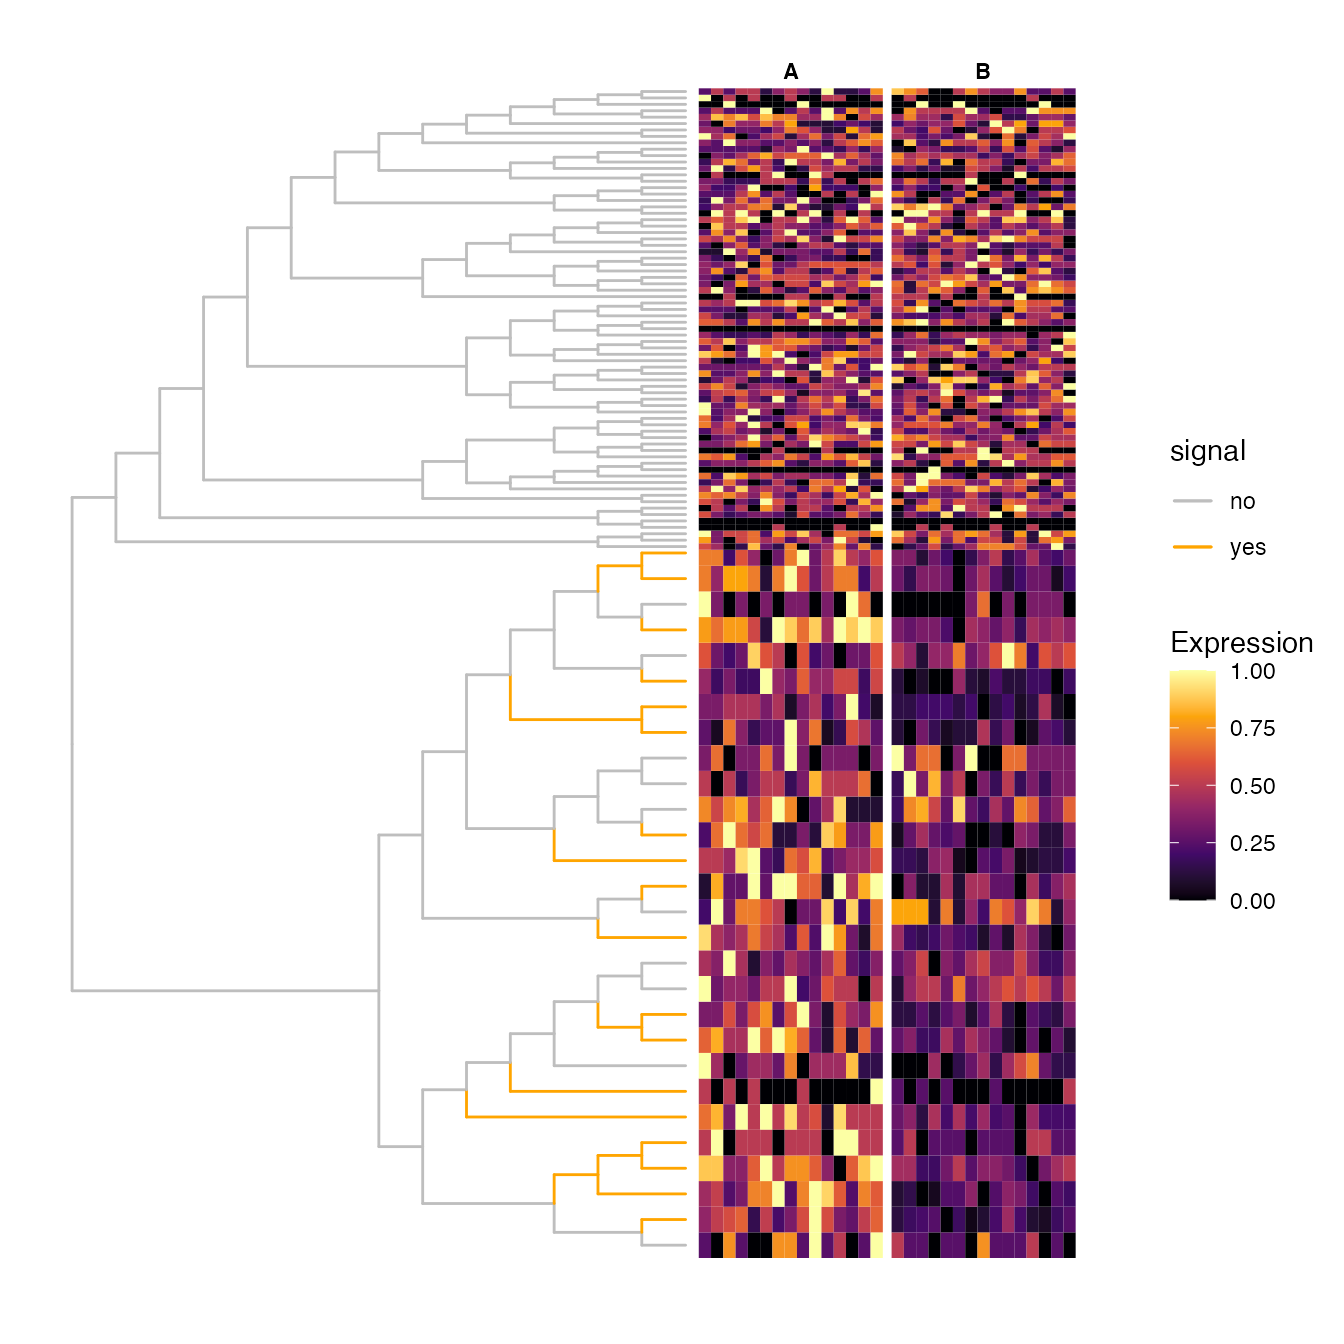
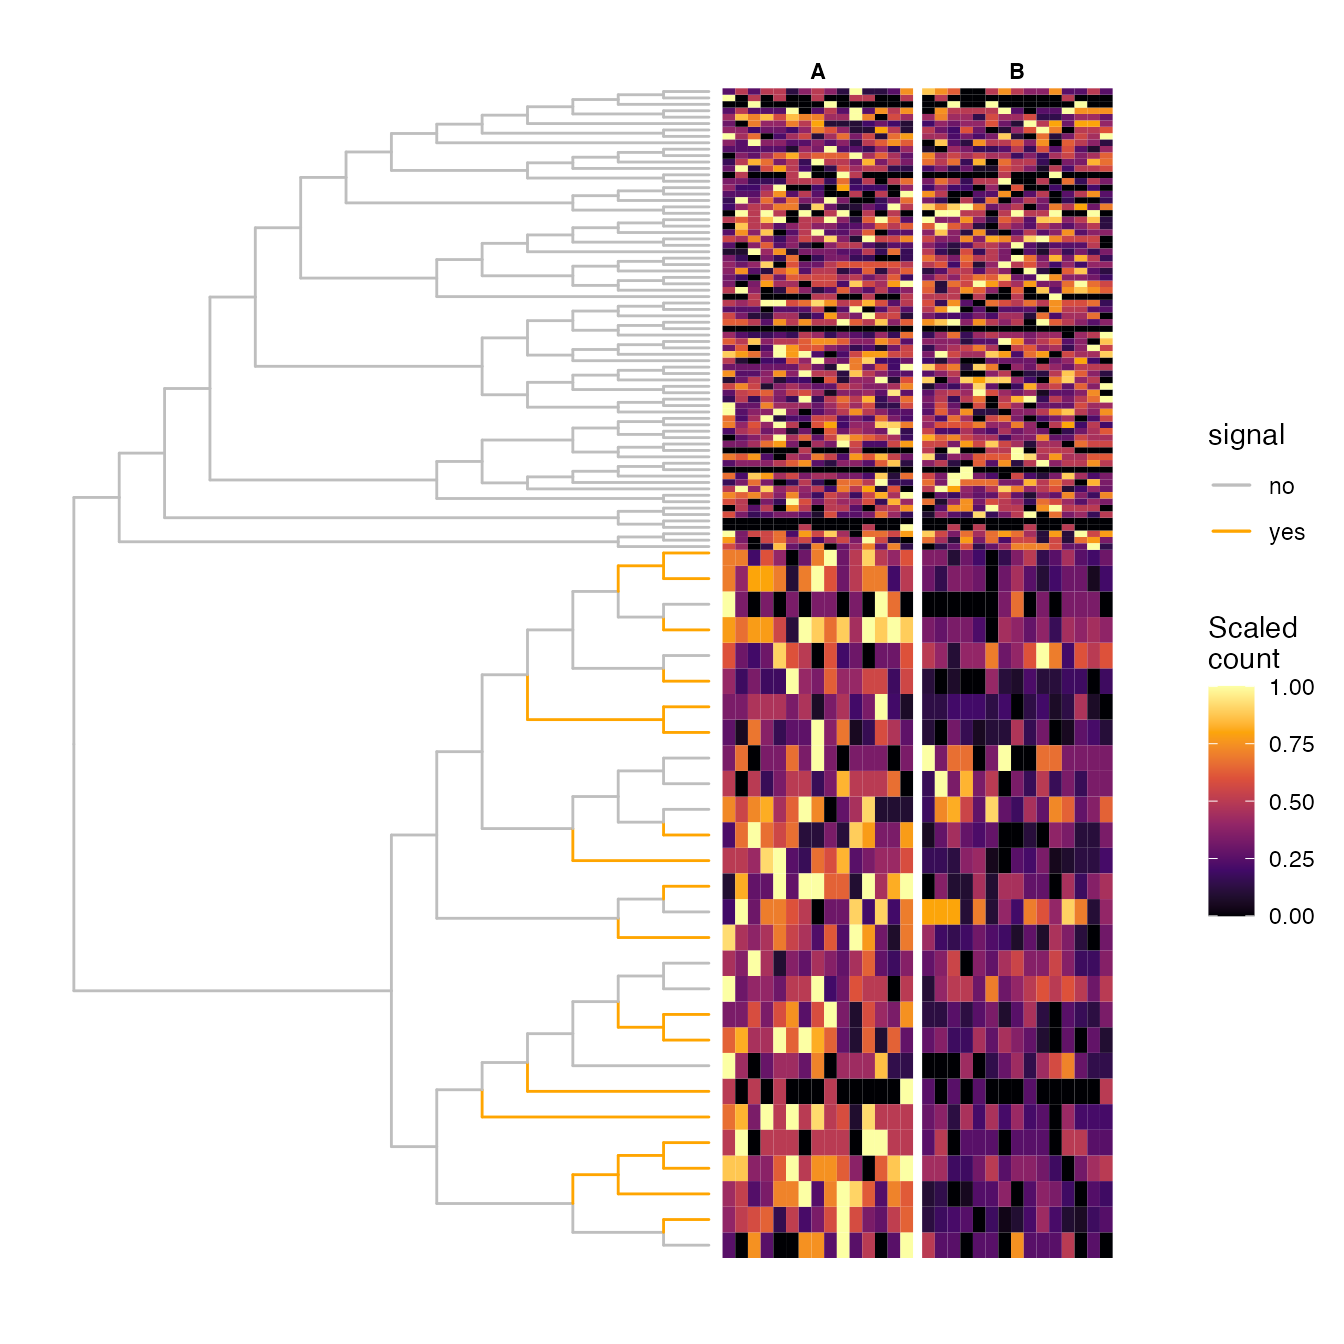
cli-35530-395

diff --git a/articles/treeclimbR.html b/articles/treeclimbR.html
@@ -74,7 +74,7 @@ hypotheses with treeclimbR</h1>
                         <h4 data-toc-skip class="author">Charlotte
 Soneson and Ruizhu Huang</h4>
             
-            <h4 data-toc-skip class="date">2024-02-14</h4>
+            <h4 data-toc-skip class="date">2024-02-20</h4>
       
       <small class="dont-index">Source: <a href="https://github.com/csoneson/treeclimbR/blob/HEAD/vignettes/treeclimbR.Rmd" class="external-link"><code>vignettes/treeclimbR.Rmd</code></a></small>
       <div class="hidden name"><code>treeclimbR.Rmd</code></div>
@@ -98,9 +98,9 @@ conditions to be reliably detected. Aggregating abundances on a higher
 level in the tree can detect families of species that are closely
 related and that all change (possibly weakly but) concordantly. At the
 same time, blindly aggregating to a higher level across the whole tree
-may mean that we lose the ability to pinpoint specific species with a
-strong signal that may not be shared with their closest neighbors in the
-tree. Taken together, this motivates the development of a data-dependent
+may imply losing the ability to pinpoint specific species with a strong
+signal that may not be shared with their closest neighbors in the tree.
+Taken together, this motivates the development of a data-dependent
 aggregation approach, which is also allowed to aggregate different parts
 of the tree at different levels of resolution.</p>
 <p>If you are using <code>treeclimbR</code>, please cite <span class="citation">Huang et al. (2021)</span>, which also contains the
@@ -214,7 +214,7 @@ data.</p>
 <span><span class="fu"><a href="https://rdrr.io/r/base/names.html" class="external-link">names</a></span><span class="op">(</span><span class="va">vv</span><span class="op">)</span> <span class="op">&lt;-</span> <span class="fu"><a href="https://rdrr.io/r/base/colnames.html" class="external-link">colnames</a></span><span class="op">(</span><span class="va">scale_count</span><span class="op">)</span></span>
 <span><span class="va">anno_c</span> <span class="op">&lt;-</span> <span class="fu"><a href="https://rdrr.io/r/base/structure.html" class="external-link">structure</a></span><span class="op">(</span><span class="va">vv</span>, names <span class="op">=</span> <span class="va">vv</span><span class="op">)</span></span>
 <span><span class="fu"><a href="../reference/TreeHeatmap.html">TreeHeatmap</a></span><span class="op">(</span>tree <span class="op">=</span> <span class="fu"><a href="https://rdrr.io/pkg/TreeSummarizedExperiment/man/TreeSummarizedExperiment-accessor.html" class="external-link">rowTree</a></span><span class="op">(</span><span class="va">da_lse</span><span class="op">)</span>, tree_fig <span class="op">=</span> <span class="va">da_fig_tree</span>, </span>
-<span>            hm_data <span class="op">=</span> <span class="va">scale_count</span>,</span>
+<span>            hm_data <span class="op">=</span> <span class="va">scale_count</span>, legend_title_hm <span class="op">=</span> <span class="st">"Scaled\ncount"</span>,</span>
 <span>            column_split <span class="op">=</span> <span class="va">vv</span>, rel_width <span class="op">=</span> <span class="fl">0.6</span>,</span>
 <span>            tree_hm_gap <span class="op">=</span> <span class="fl">0.3</span>,</span>
 <span>            column_split_label <span class="op">=</span> <span class="va">anno_c</span><span class="op">)</span> <span class="op">+</span></span>
@@ -241,7 +241,9 @@ aggregation level.</p>
 <p>Here, we use the <code>aggTSE</code> function from the
 <code>TreeSummarizedExperiment</code> package to calculate an aggregated
 count for each internal node in the tree by summing the counts for all
-its descendant leaves.</p>
+its descendant leaves. For other applications, other aggregation methods
+(e.g., averaging) may be more suitable. This can be controlled via the
+<code>rowFun</code> argument.</p>
 <div class="sourceCode" id="cb4"><pre class="downlit sourceCode r">
 <code class="sourceCode R"><span><span class="co">## Get a list of all node IDs</span></span>
 <span><span class="va">all_node</span> <span class="op">&lt;-</span> <span class="fu"><a href="https://rdrr.io/pkg/TreeSummarizedExperiment/man/showNode.html" class="external-link">showNode</a></span><span class="op">(</span>tree <span class="op">=</span> <span class="fu"><a href="https://rdrr.io/pkg/TreeSummarizedExperiment/man/TreeSummarizedExperiment-accessor.html" class="external-link">rowTree</a></span><span class="op">(</span><span class="va">da_lse</span><span class="op">)</span>, only.leaf <span class="op">=</span> <span class="cn">FALSE</span><span class="op">)</span></span>
@@ -581,10 +583,10 @@ applying <code>edgeR</code> on the aggregated counts for each node.
 However, any suitable method can be used.</p>
 <div class="sourceCode" id="cb19"><pre class="downlit sourceCode r">
 <code class="sourceCode R"><span><span class="va">ds_res</span> <span class="op">&lt;-</span> <span class="fu"><a href="../reference/runDS.html">runDS</a></span><span class="op">(</span>SE <span class="op">=</span> <span class="va">ds_se</span>, tree <span class="op">=</span> <span class="fu"><a href="https://rdrr.io/pkg/TreeSummarizedExperiment/man/TreeSummarizedExperiment-accessor.html" class="external-link">colTree</a></span><span class="op">(</span><span class="va">ds_tse</span><span class="op">)</span>, option <span class="op">=</span> <span class="st">"glmQL"</span>, </span>
-<span>                group_column <span class="op">=</span> <span class="st">"group"</span>, contrast <span class="op">=</span> <span class="fu"><a href="https://rdrr.io/r/base/c.html" class="external-link">c</a></span><span class="op">(</span><span class="fl">0</span>, <span class="fl">1</span><span class="op">)</span>, </span>
-<span>                filter_min_count <span class="op">=</span> <span class="fl">0</span>, filter_min_total_count <span class="op">=</span> <span class="fl">1</span>,</span>
 <span>                design <span class="op">=</span> <span class="fu"><a href="https://rdrr.io/r/stats/model.matrix.html" class="external-link">model.matrix</a></span><span class="op">(</span><span class="op">~</span> <span class="va">group</span>, data <span class="op">=</span> <span class="fu"><a href="https://rdrr.io/pkg/SummarizedExperiment/man/SummarizedExperiment-class.html" class="external-link">colData</a></span><span class="op">(</span><span class="va">ds_se</span><span class="op">)</span><span class="op">)</span>, </span>
-<span>                filter_min_prop <span class="op">=</span> <span class="fl">0</span>, min_cells <span class="op">=</span> <span class="fl">5</span>, message <span class="op">=</span> <span class="cn">FALSE</span><span class="op">)</span></span>
+<span>                contrast <span class="op">=</span> <span class="fu"><a href="https://rdrr.io/r/base/c.html" class="external-link">c</a></span><span class="op">(</span><span class="fl">0</span>, <span class="fl">1</span><span class="op">)</span>, filter_min_count <span class="op">=</span> <span class="fl">0</span>, </span>
+<span>                filter_min_total_count <span class="op">=</span> <span class="fl">1</span>, filter_min_prop <span class="op">=</span> <span class="fl">0</span>, min_cells <span class="op">=</span> <span class="fl">5</span>, </span>
+<span>                group_column <span class="op">=</span> <span class="st">"group"</span>, message <span class="op">=</span> <span class="cn">FALSE</span><span class="op">)</span></span>
 <span><span class="co">#&gt; 0 nodes are ignored, as they don't contain at least 5 cells in at least half of the samples.</span></span></code></pre></div>
 <p>As before, the output contains the <code>edgeR</code> results for
 each node, the tree, and the list of nodes that were dropped because of
@@ -733,9 +735,9 @@ experimental data sets can be found on <a href="https://github.com/fionarhuang/t
 (click to expand) </b>
 </summary><div class="sourceCode" id="cb26"><pre class="downlit sourceCode r">
 <code class="sourceCode R"><span><span class="fu"><a href="https://rdrr.io/r/utils/sessionInfo.html" class="external-link">sessionInfo</a></span><span class="op">(</span><span class="op">)</span></span>
-<span><span class="co">#&gt; R Under development (unstable) (2024-02-13 r85897)</span></span>
+<span><span class="co">#&gt; R Under development (unstable) (2024-02-19 r85942)</span></span>
 <span><span class="co">#&gt; Platform: x86_64-apple-darwin20</span></span>
-<span><span class="co">#&gt; Running under: macOS Monterey 12.7.2</span></span>
+<span><span class="co">#&gt; Running under: macOS Monterey 12.7.3</span></span>
 <span><span class="co">#&gt; </span></span>
 <span><span class="co">#&gt; Matrix products: default</span></span>
 <span><span class="co">#&gt; BLAS:   /Library/Frameworks/R.framework/Versions/4.4-x86_64/Resources/lib/libRblas.0.dylib </span></span>
@@ -757,7 +759,7 @@ experimental data sets can be found on <a href="https://github.com/fionarhuang/t
 <span><span class="co">#&gt;  [5] TreeSummarizedExperiment_2.11.0 Biostrings_2.71.2              </span></span>
 <span><span class="co">#&gt;  [7] XVector_0.43.1                  SingleCellExperiment_1.25.0    </span></span>
 <span><span class="co">#&gt;  [9] SummarizedExperiment_1.33.3     Biobase_2.63.0                 </span></span>
-<span><span class="co">#&gt; [11] GenomicRanges_1.55.2            GenomeInfoDb_1.39.6            </span></span>
+<span><span class="co">#&gt; [11] GenomicRanges_1.55.3            GenomeInfoDb_1.39.6            </span></span>
 <span><span class="co">#&gt; [13] IRanges_2.37.1                  S4Vectors_0.41.3               </span></span>
 <span><span class="co">#&gt; [15] BiocGenerics_0.49.1             MatrixGenerics_1.15.0          </span></span>
 <span><span class="co">#&gt; [17] matrixStats_1.2.0               BiocStyle_2.31.0               </span></span>
@@ -773,11 +775,11 @@ experimental data sets can be found on <a href="https://github.com/fionarhuang/t
 <span><span class="co">#&gt;  [15] minqa_1.2.6                 RCurl_1.98-1.14            </span></span>
 <span><span class="co">#&gt;  [17] rstatix_0.7.2               htmltools_0.5.7            </span></span>
 <span><span class="co">#&gt;  [19] S4Arrays_1.3.3              broom_1.0.5                </span></span>
-<span><span class="co">#&gt;  [21] gridGraphics_0.5-1          SparseArray_1.3.3          </span></span>
+<span><span class="co">#&gt;  [21] gridGraphics_0.5-1          SparseArray_1.3.4          </span></span>
 <span><span class="co">#&gt;  [23] sass_0.4.8                  bslib_0.6.1                </span></span>
 <span><span class="co">#&gt;  [25] desc_1.4.3                  plyr_1.8.9                 </span></span>
 <span><span class="co">#&gt;  [27] sandwich_3.1-0              zoo_1.8-12                 </span></span>
-<span><span class="co">#&gt;  [29] cachem_1.0.8                igraph_2.0.1.1             </span></span>
+<span><span class="co">#&gt;  [29] cachem_1.0.8                igraph_2.0.2               </span></span>
 <span><span class="co">#&gt;  [31] lifecycle_1.0.4             iterators_1.0.14           </span></span>
 <span><span class="co">#&gt;  [33] pkgconfig_2.0.3             Matrix_1.6-5               </span></span>
 <span><span class="co">#&gt;  [35] R6_2.5.1                    fastmap_1.1.1              </span></span>
@@ -793,7 +795,7 @@ experimental data sets can be found on <a href="https://github.com/fionarhuang/t
 <span><span class="co">#&gt;  [55] ConsensusClusterPlus_1.67.0 backports_1.4.1            </span></span>
 <span><span class="co">#&gt;  [57] BiocParallel_1.37.0         viridis_0.6.5              </span></span>
 <span><span class="co">#&gt;  [59] carData_3.0-5               highr_0.10                 </span></span>
-<span><span class="co">#&gt;  [61] ggforce_0.4.1               ggsignif_0.6.4             </span></span>
+<span><span class="co">#&gt;  [61] ggforce_0.4.2               ggsignif_0.6.4             </span></span>
 <span><span class="co">#&gt;  [63] MASS_7.3-60.2               DelayedArray_0.29.1        </span></span>
 <span><span class="co">#&gt;  [65] rjson_0.2.21                FlowSOM_2.11.0             </span></span>
 <span><span class="co">#&gt;  [67] diffcyt_1.23.0              tools_4.4.0                </span></span>
@@ -805,18 +807,18 @@ experimental data sets can be found on <a href="https://github.com/fionarhuang/t
 <span><span class="co">#&gt;  [79] car_3.1-2                   utf8_1.2.4                 </span></span>
 <span><span class="co">#&gt;  [81] foreach_1.5.2               pillar_1.9.0               </span></span>
 <span><span class="co">#&gt;  [83] stringr_1.5.1               yulab.utils_0.1.4          </span></span>
-<span><span class="co">#&gt;  [85] limma_3.59.2                circlize_0.4.15            </span></span>
+<span><span class="co">#&gt;  [85] limma_3.59.3                circlize_0.4.15            </span></span>
 <span><span class="co">#&gt;  [87] splines_4.4.0               flowCore_2.15.2            </span></span>
 <span><span class="co">#&gt;  [89] tweenr_2.0.2                treeio_1.27.0              </span></span>
-<span><span class="co">#&gt;  [91] lattice_0.22-5              survival_3.5-7             </span></span>
+<span><span class="co">#&gt;  [91] lattice_0.22-5              survival_3.5-8             </span></span>
 <span><span class="co">#&gt;  [93] dirmult_0.1.3-5             RProtoBufLib_2.15.0        </span></span>
 <span><span class="co">#&gt;  [95] tidyselect_1.2.0            ComplexHeatmap_2.19.0      </span></span>
 <span><span class="co">#&gt;  [97] locfit_1.5-9.8              knitr_1.45                 </span></span>
 <span><span class="co">#&gt;  [99] gridExtra_2.3               bookdown_0.37              </span></span>
-<span><span class="co">#&gt; [101] edgeR_4.1.15                xfun_0.42                  </span></span>
+<span><span class="co">#&gt; [101] edgeR_4.1.16                xfun_0.42                  </span></span>
 <span><span class="co">#&gt; [103] statmod_1.5.0               stringi_1.8.3              </span></span>
 <span><span class="co">#&gt; [105] ggfun_0.1.4                 lazyeval_0.2.2             </span></span>
-<span><span class="co">#&gt; [107] yaml_2.3.8                  boot_1.3-28.1              </span></span>
+<span><span class="co">#&gt; [107] yaml_2.3.8                  boot_1.3-29                </span></span>
 <span><span class="co">#&gt; [109] evaluate_0.23               codetools_0.2-19           </span></span>
 <span><span class="co">#&gt; [111] tibble_3.2.1                BiocManager_1.30.22        </span></span>
 <span><span class="co">#&gt; [113] ggplotify_0.1.2             cli_3.6.2                  </span></span>
